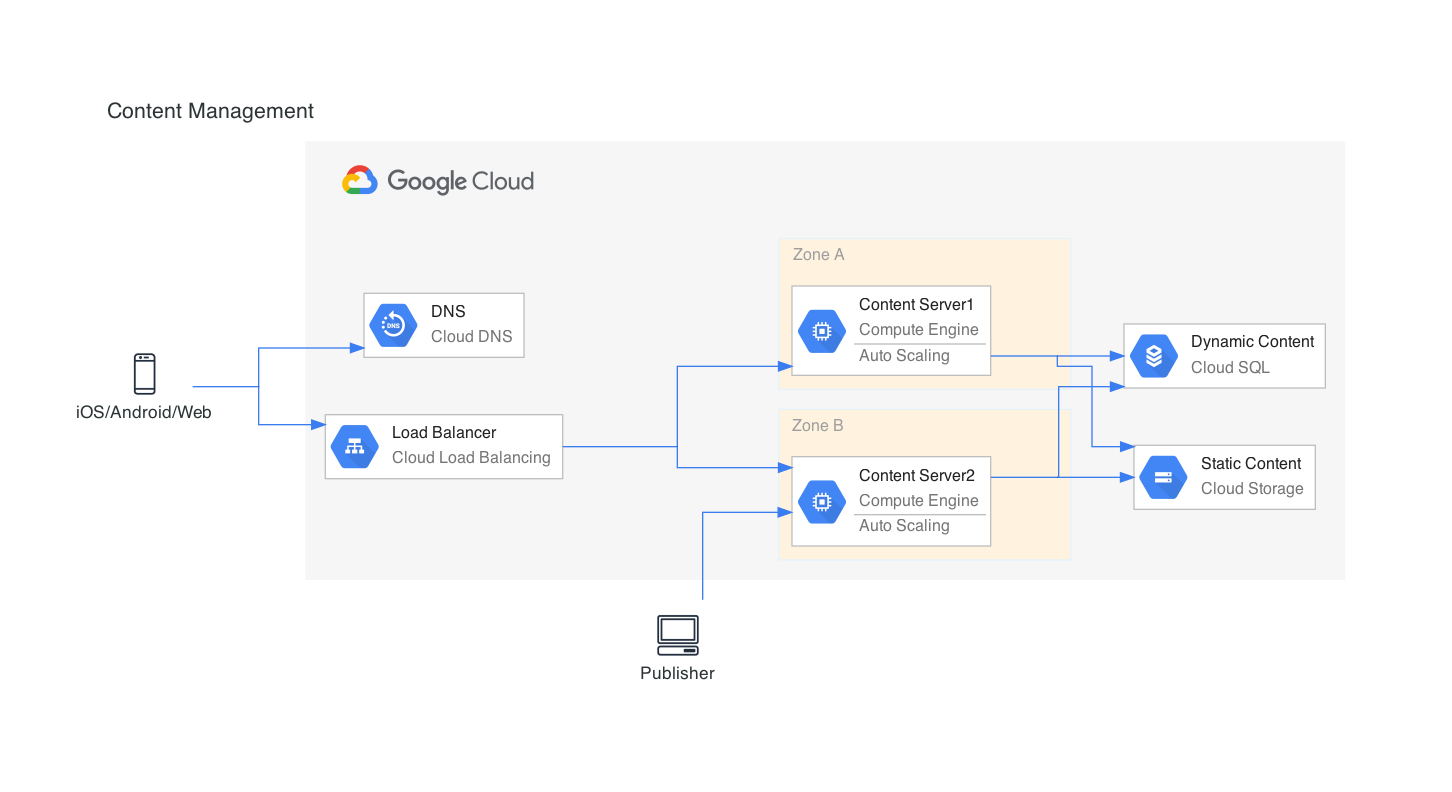
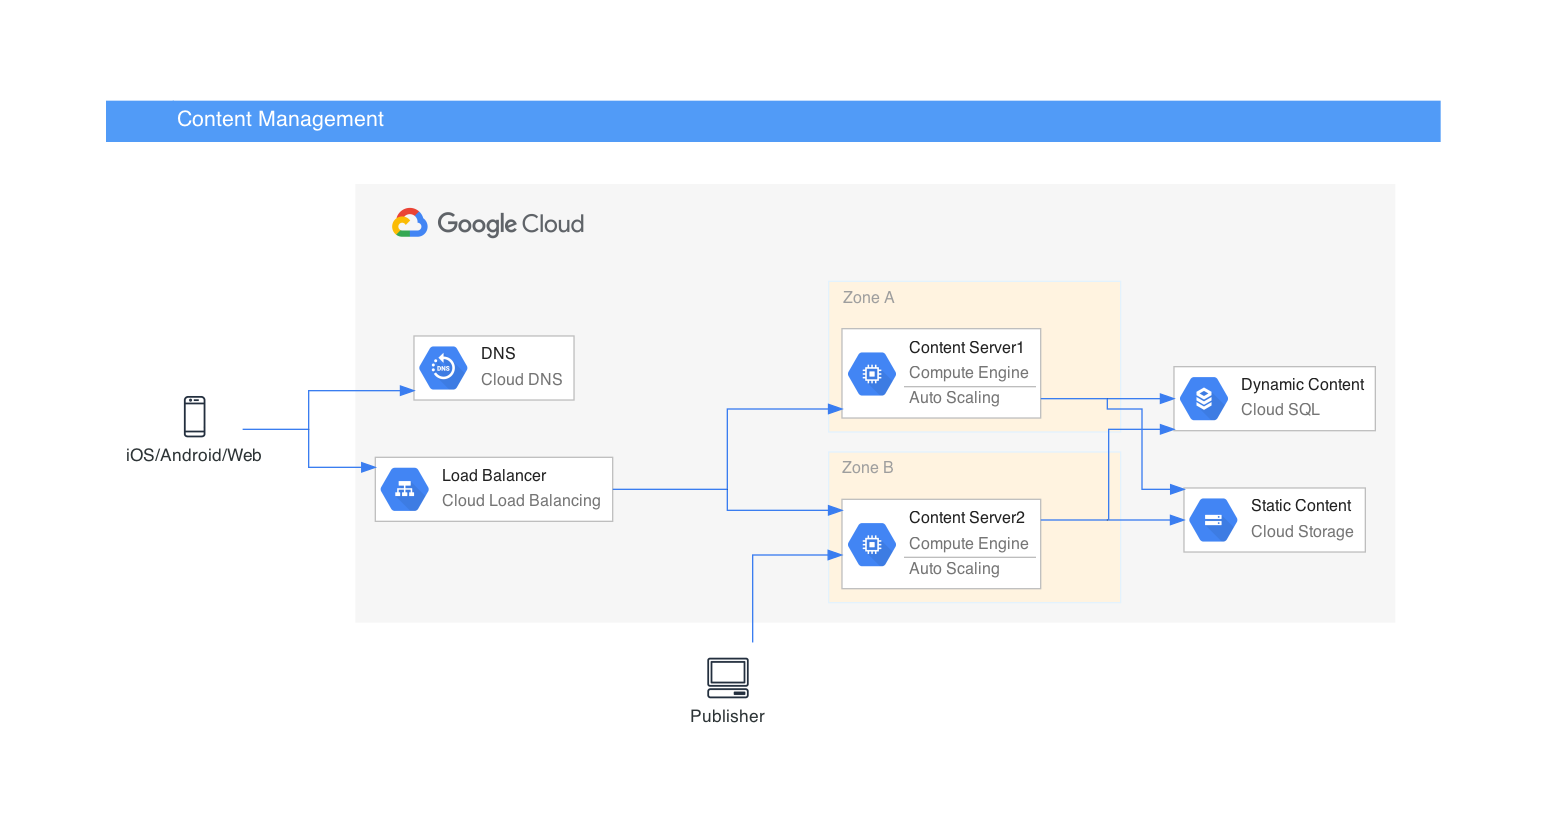
chore(@rediagram/gallery): add title bar for GCP diagrams #141

diff --git a/examples/gallery/src/HighPerformanceComputing.rediagram.tsx b/examples/gallery/src/HighPerformanceComputing.rediagram.tsx
@@ -1,9 +1,9 @@
 import React from 'react';
 import { PNG, Diagram, GeneralIcon } from 'rediagram';
-import { GCP, InvizGCP, ComputeEngine, OptionalComponent } from '@rediagram/gcp';
+import { GCP, InvizGCP, ComputeEngine, OptionalComponent, TitleBar } from '@rediagram/gcp';
 
 PNG(
-  <Diagram title="High Performance Computing">
+  <Diagram title={<TitleBar width={800}>High Performance Computing</TitleBar>}>
     <InvizGCP>
       <GeneralIcon name="iOS/Android/Web" type="Mobile client" upstream={['HPC Head Node']} />
       <GCP>

diff --git a/examples/gallery/src/ContentManagement.rediagram.tsx b/examples/gallery/src/ContentManagement.rediagram.tsx
@@ -9,10 +9,11 @@ import {
   Zone,
   CloudStorage,
   CloudSQL,
+  TitleBar,
 } from '@rediagram/gcp';
 
 PNG(
-  <Diagram title="Content Management">
+  <Diagram title={<TitleBar>Content Management</TitleBar>}>
     <InvizGCP>
       <GeneralIcon name="iOS/Android/Web" type="Mobile client" upstream={['DNS', 'Load Balancer']} />
       <GeneralIcon name="Publisher" type="Client" upstream={['Content Server2']} />
